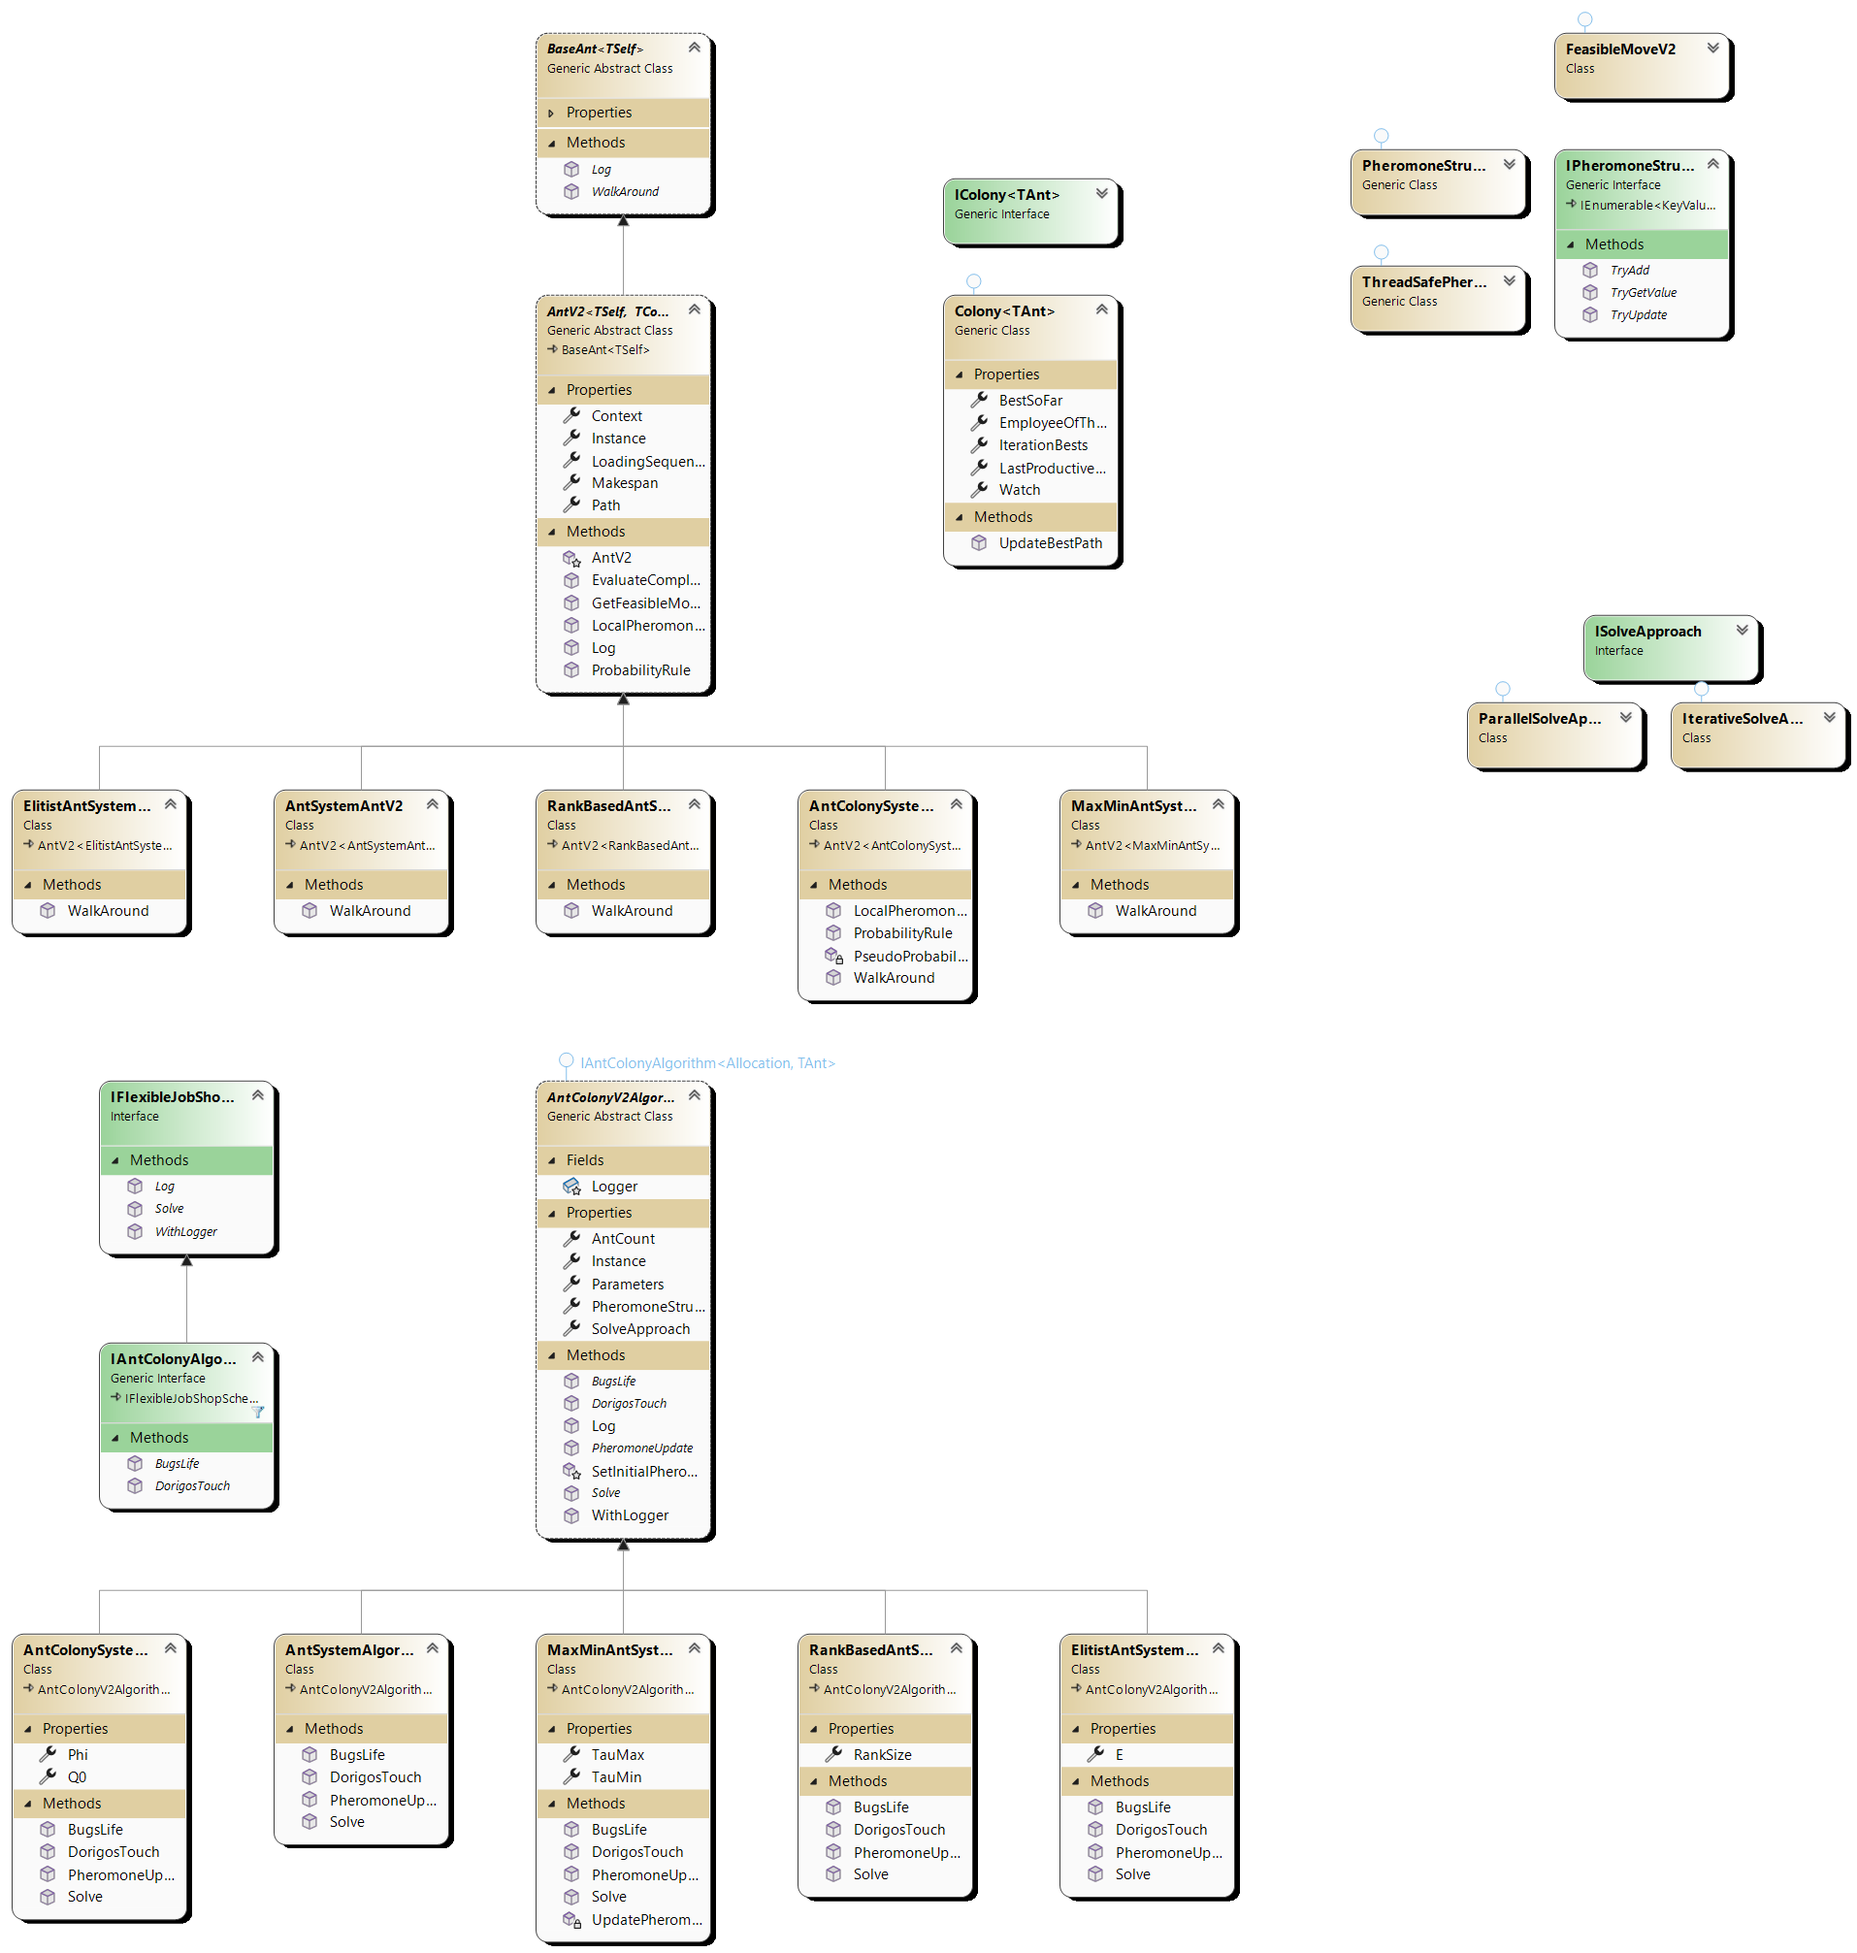
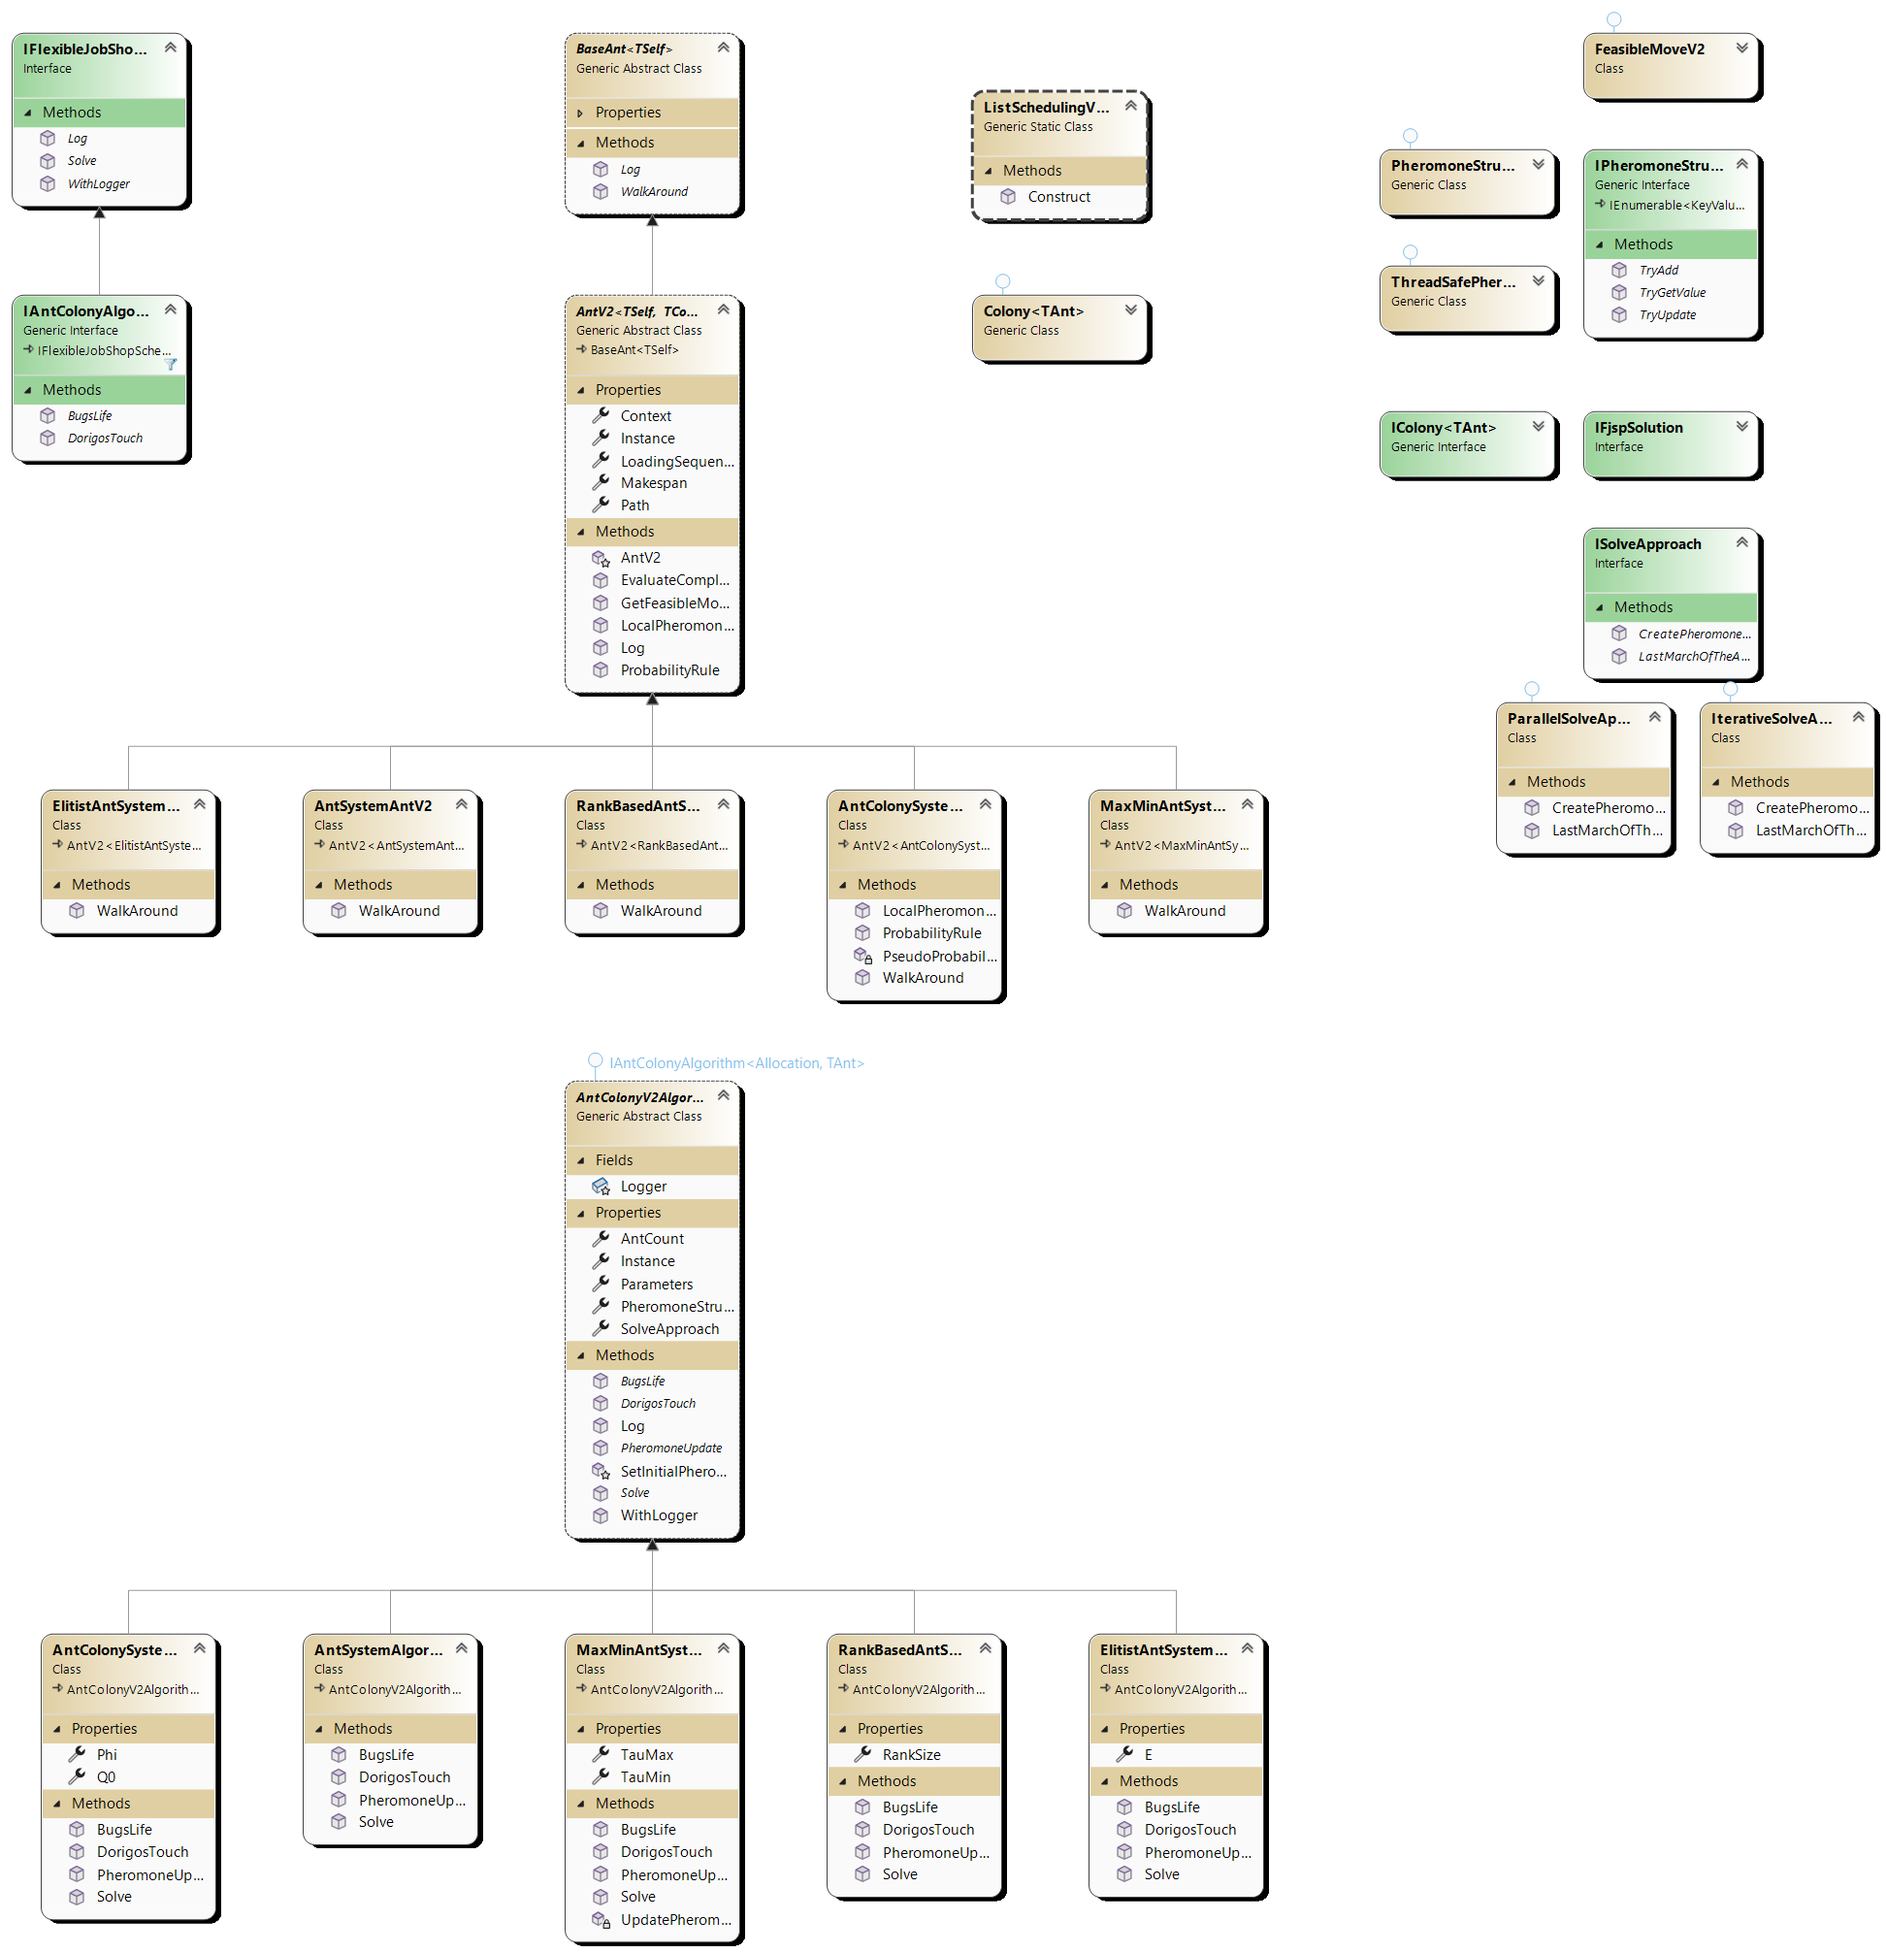
fix: naming conventions

diff --git a/Scheduling.Solver/AntColonyOptimization/IterativeSolveApproach.cs b/Scheduling.Solver/AntColonyOptimization/IterativeSolveApproach.cs
@@ -7,7 +7,7 @@ namespace Scheduling.Solver.AntColonyOptimization
     {
         public IPheromoneStructure<TPheromonePoint> CreatePheromoneTrail<TPheromonePoint>() where TPheromonePoint : notnull => new PheromoneStructure<TPheromonePoint>();
 
-        public TAnt[] Solve<TPheromonePoint, TAnt>(int currentIteration, IAntColonyAlgorithm<TPheromonePoint, TAnt> solverContext, Func<int, int, TAnt> bugSpawner) where TAnt : BaseAnt<TAnt>
+        public TAnt[] LastMarchOfTheAnts<TPheromonePoint, TAnt>(int currentIteration, IAntColonyAlgorithm<TPheromonePoint, TAnt> solverContext, Func<int, int, TAnt> bugSpawner) where TAnt : BaseAnt<TAnt>
         {
             var ants = new TAnt[solverContext.AntCount];
             solverContext.Log($"#{currentIteration}th wave ants start to walk...");

diff --git a/Scheduling.Solver/Interfaces/ISolveApproach.cs b/Scheduling.Solver/Interfaces/ISolveApproach.cs
@@ -1,4 +1,5 @@
 using Scheduling.Solver.AntColonyOptimization;
+using System.Collections.Generic;
 
 namespace Scheduling.Solver.Interfaces
 {
@@ -6,7 +7,7 @@ namespace Scheduling.Solver.Interfaces
     {
         IPheromoneStructure<TPheromonePoint> CreatePheromoneTrail<TPheromonePoint>() where TPheromonePoint : notnull;
 
-        TAnt[] Solve<TPheromonePoint, TAnt>(int currentIteration,
+        TAnt[] LastMarchOfTheAnts<TPheromonePoint, TAnt>(int currentIteration,
                     IAntColonyAlgorithm<TPheromonePoint, TAnt> solverContext,
                     Func<int, int, TAnt> bugSpawner) where TAnt : BaseAnt<TAnt>;
     }

diff --git a/Scheduling.Solver/AntColonyOptimization/ParallelSolveApproach.cs b/Scheduling.Solver/AntColonyOptimization/ParallelSolveApproach.cs
@@ -8,7 +8,7 @@ namespace Scheduling.Solver.AntColonyOptimization
         public IPheromoneStructure<TPheromonePoint> CreatePheromoneTrail<TPheromonePoint>() where TPheromonePoint : notnull 
             => new ThreadSafePheromoneStructure<TPheromonePoint>();
 
-        public TAnt[] Solve<TPheromonePoint, TAnt>(
+        public TAnt[] LastMarchOfTheAnts<TPheromonePoint, TAnt>(
             int currentIteration, 
             IAntColonyAlgorithm<TPheromonePoint, TAnt> solverContext, 
             Func<int, int, TAnt> bugSpawner) where TAnt : BaseAnt<TAnt>

diff --git a/Scheduling.Solver/AntColonyOptimization/ListSchedulingV2/Algorithms/MaxMinAntSystemAlgorithmV2.cs b/Scheduling.Solver/AntColonyOptimization/ListSchedulingV2/Algorithms/MaxMinAntSystemAlgorithmV2.cs
@@ -86,7 +86,7 @@ namespace Scheduling.Solver.AntColonyOptimization.ListSchedulingV2.Algorithms
         {
             MaxMinAntSystemAntV2 BugSpawner(int id, int generation) => new(id, generation, this);
 
-            return SolveApproach.Solve(currentIteration, this, BugSpawner);
+            return SolveApproach.LastMarchOfTheAnts(currentIteration, this, BugSpawner);
         }
 
         public override void PheromoneUpdate(IColony<MaxMinAntSystemAntV2> colony, MaxMinAntSystemAntV2[] ants, int currentIteration)

diff --git a/Scheduling.Solver/AntColonyOptimization/ListSchedulingV0/AntColonySystemAlgorithmV0.cs b/Scheduling.Solver/AntColonyOptimization/ListSchedulingV0/AntColonySystemAlgorithmV0.cs
@@ -149,7 +149,7 @@ namespace Scheduling.Solver.AntColonyOptimization.ListSchedulingV0
 
         public AntColonySystemAntV0[] BugsLife(int currentIteration)
         {
-            return SolveApproach.Solve(currentIteration, this, BugSpawner);
+            return SolveApproach.LastMarchOfTheAnts(currentIteration, this, BugSpawner);
         }
         private AntColonySystemAntV0 BugSpawner(int id, int currentIteration) => new(id, currentIteration, this);
     }

diff --git a/Scheduling.Solver/AntColonyOptimization/ListSchedulingV1/Algorithms/AntColonySystemAlgorithmV1.cs b/Scheduling.Solver/AntColonyOptimization/ListSchedulingV1/Algorithms/AntColonySystemAlgorithmV1.cs
@@ -34,7 +34,7 @@ namespace Scheduling.Solver.AntColonyOptimization.ListSchedulingV1.Algorithms
         {
             AntColonySystemAntV1 BugSpawner(int id, int generation) => new(id, generation, this);
 
-            return SolveApproach.Solve(currentIteration, this, BugSpawner);
+            return SolveApproach.LastMarchOfTheAnts(currentIteration, this, BugSpawner);
         }
 
         public override IFjspSolution Solve(Instance instance)

diff --git a/Scheduling.Solver/AntColonyOptimization/ListSchedulingV1/Algorithms/MaxMinAntSystemAlgorithmV1.cs b/Scheduling.Solver/AntColonyOptimization/ListSchedulingV1/Algorithms/MaxMinAntSystemAlgorithmV1.cs
@@ -41,7 +41,7 @@ namespace Scheduling.Solver.AntColonyOptimization.ListSchedulingV1.Algorithms
         {
             MaxMinAntSystemAntV1 BugSpawner(int id, int generation) => new(id, generation, this);
 
-            return SolveApproach.Solve(currentIteration, this, BugSpawner);
+            return SolveApproach.LastMarchOfTheAnts(currentIteration, this, BugSpawner);
         }
 
         public override IFjspSolution Solve(Instance instance)

diff --git a/Scheduling.Solver/AntColonyOptimization/ListSchedulingV2/Algorithms/AntColonySystemAlgorithmV2.cs b/Scheduling.Solver/AntColonyOptimization/ListSchedulingV2/Algorithms/AntColonySystemAlgorithmV2.cs
@@ -36,7 +36,7 @@ namespace Scheduling.Solver.AntColonyOptimization.ListSchedulingV2.Algorithms
         {
             AntColonySystemAntV2 BugSpawner(int id, int generation) => new(id, generation, this);
 
-            return SolveApproach.Solve(currentIteration, this, BugSpawner);
+            return SolveApproach.LastMarchOfTheAnts(currentIteration, this, BugSpawner);
         }
 
         public override IFjspSolution Solve(Instance instance)

diff --git a/Scheduling.Solver/AntColonyOptimization/ListSchedulingV3/Algorithms/AntColonySystemAlgorithmV3.cs b/Scheduling.Solver/AntColonyOptimization/ListSchedulingV3/Algorithms/AntColonySystemAlgorithmV3.cs
@@ -33,7 +33,7 @@ namespace Scheduling.Solver.AntColonyOptimization.ListSchedulingV3.Algorithms
         {
             AntColonySystemAntV3 BugSpawner(int id, int generation) => new(id, generation, this);
 
-            return SolveApproach.Solve(currentIteration, this, BugSpawner);
+            return SolveApproach.LastMarchOfTheAnts(currentIteration, this, BugSpawner);
         }
 
         public override IFjspSolution Solve(Instance instance)

diff --git a/Scheduling.Solver/AntColonyOptimization/ListSchedulingV3/Algorithms/MaxMinAntSystemAlgorithmV3.cs b/Scheduling.Solver/AntColonyOptimization/ListSchedulingV3/Algorithms/MaxMinAntSystemAlgorithmV3.cs
@@ -39,7 +39,7 @@ namespace Scheduling.Solver.AntColonyOptimization.ListSchedulingV3.Algorithms
         {
             MaxMinAntSystemAntV3 BugSpawner(int id, int generation) => new(id, generation, this);
 
-            return SolveApproach.Solve(currentIteration, this, BugSpawner);
+            return SolveApproach.LastMarchOfTheAnts(currentIteration, this, BugSpawner);
         }
 
         public override IFjspSolution Solve(Instance instance)

diff --git a/Scheduling.Solver/AntColonyOptimization/ListSchedulingV1/Algorithms/RankBasedAntSystemAlgorithmV1.cs b/Scheduling.Solver/AntColonyOptimization/ListSchedulingV1/Algorithms/RankBasedAntSystemAlgorithmV1.cs
@@ -96,7 +96,7 @@ namespace Scheduling.Solver.AntColonyOptimization.ListSchedulingV1.Algorithms
         {
             RankBasedAntSystemAntV1 BugSpawner(int id, int generation) => new(id, generation, this);
 
-            return SolveApproach.Solve(currentIteration, this, BugSpawner);
+            return SolveApproach.LastMarchOfTheAnts(currentIteration, this, BugSpawner);
         }
     }
 }

diff --git a/Scheduling.Solver/AntColonyOptimization/ListSchedulingV2/Algorithms/RankBasedAntSystemAlgorithmV2.cs b/Scheduling.Solver/AntColonyOptimization/ListSchedulingV2/Algorithms/RankBasedAntSystemAlgorithmV2.cs
@@ -90,7 +90,7 @@ namespace Scheduling.Solver.AntColonyOptimization.ListSchedulingV2.Algorithms
         {
             RankBasedAntSystemAntV2 BugSpawner(int id, int generation) => new(id, generation, this);
 
-            return SolveApproach.Solve(currentIteration, this, BugSpawner);
+            return SolveApproach.LastMarchOfTheAnts(currentIteration, this, BugSpawner);
         }
     }
 }
